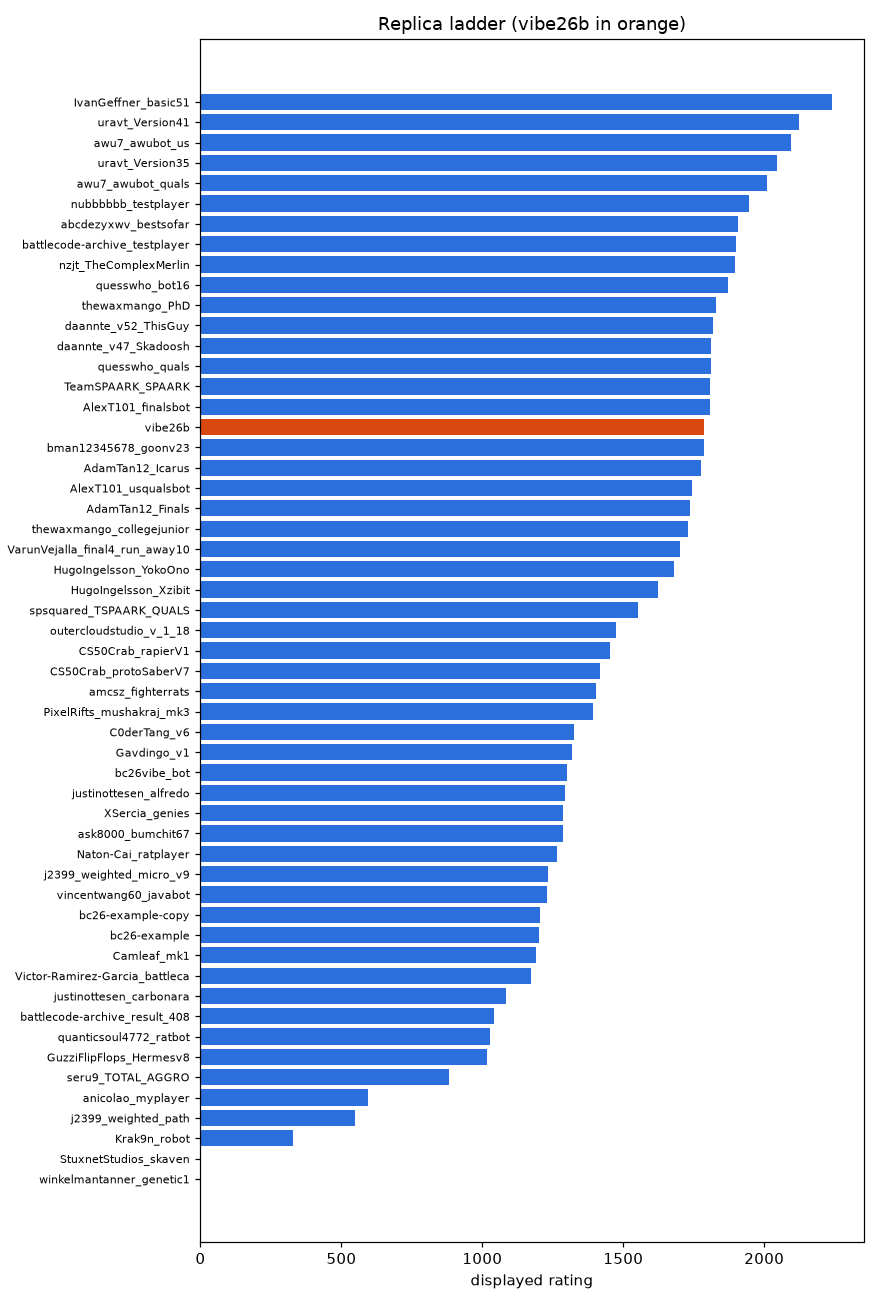
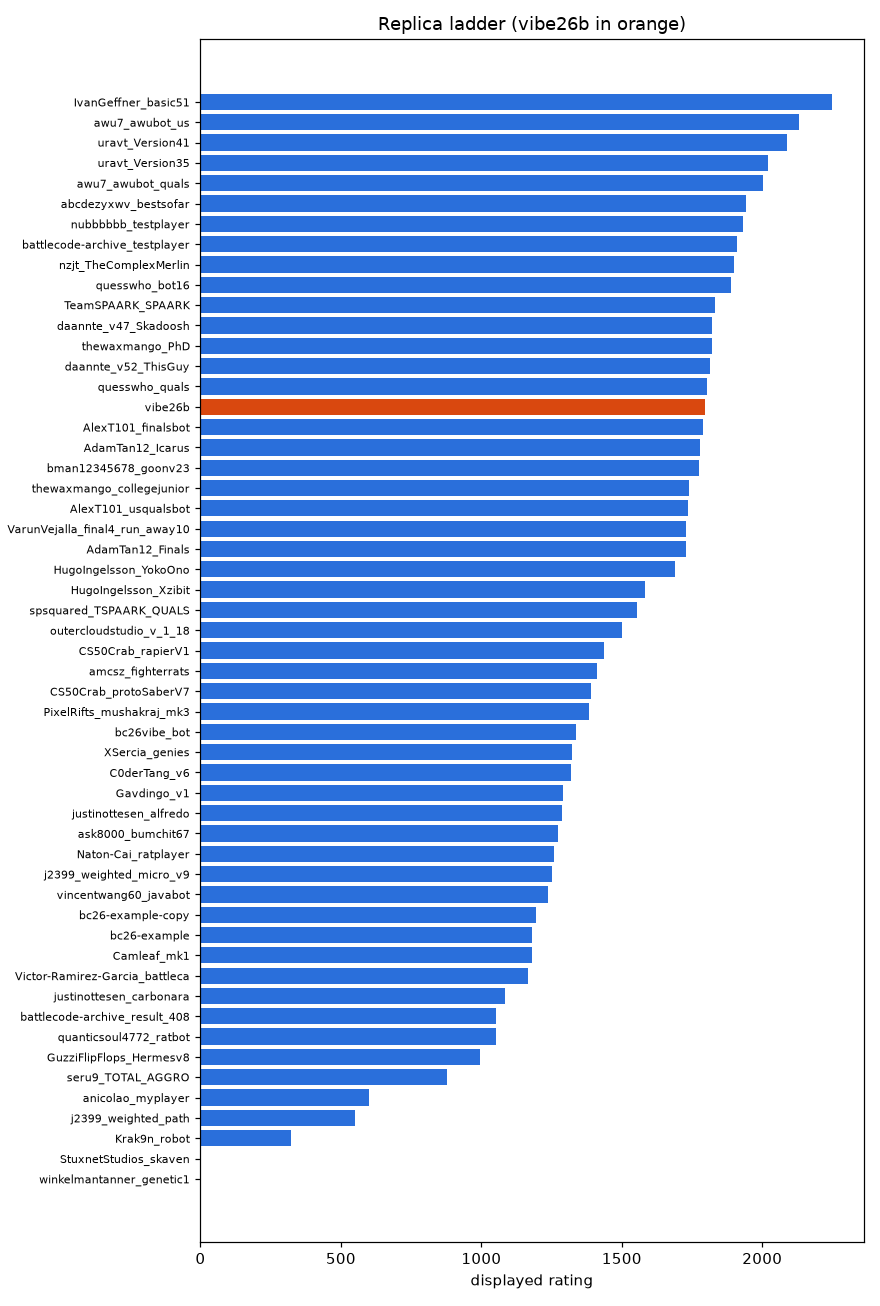
progress charts 11-25 06:44 PDT
Claude-Session: https://claude.ai/code/session_01SzziPV5YmmvGU24CuZFoPc

diff --git a/progress/ladder.md b/progress/ladder.md
@@ -1,6 +1,6 @@
 # Galaxy replica ladder
 
-Snapshot of the Rankings page of our private galaxy replica, taken Nov 25 04:45 PDT. Written by `tools/replica_report.py`: regenerate it, do not edit it.
+Snapshot of the Rankings page of our private galaxy replica, taken Nov 25 06:42 PDT. Written by `tools/replica_report.py`: regenerate it, do not edit it.
 
 **Rating** is the replica's displayed rating (galaxy's penalized Elo, which starts every team low and climbs over its first rated matches); it is not the Bradley-Terry fit of `progress/ELO.md`. Games W-L counts the replica games in `progress/games.csv`. Our team is **vibe26b**.
 
@@ -8,57 +8,57 @@ Snapshot of the Rankings page of our private galaxy replica, taken Nov 25 04:45 
 
 | # | Team | Rating | Games W-L | Submission |
 |---:|---|---:|---|---|
-| 1 | IvanGeffner\_basic51 | 2240.2 | 2986-1529 | accepted |
-| 2 | uravt\_Version41 | 2122.7 | 2416-2162 | accepted |
-| 3 | awu7\_awubot\_us | 2095.7 | 2261-2227 | accepted |
-| 4 | uravt\_Version35 | 2044.7 | 2241-2232 | accepted |
-| 5 | awu7\_awubot\_quals | 2008.4 | 2045-2014 | accepted |
-| 6 | nubbbbbb\_testplayer | 1947.0 | 2015-1921 | accepted |
-| 7 | abcdezyxwv\_bestsofar | 1908.7 | 2494-2165 | accepted |
-| 8 | battlecode-archive\_testplayer | 1899.4 | 2065-1985 | accepted |
+| 1 | IvanGeffner\_basic51 | 2248.0 | 2986-1529 | accepted |
+| 2 | awu7\_awubot\_us | 2131.5 | 2261-2227 | accepted |
+| 3 | uravt\_Version41 | 2089.7 | 2416-2162 | accepted |
+| 4 | uravt\_Version35 | 2021.9 | 2241-2232 | accepted |
+| 5 | awu7\_awubot\_quals | 2001.1 | 2045-2014 | accepted |
+| 6 | abcdezyxwv\_bestsofar | 1943.2 | 2494-2165 | accepted |
+| 7 | nubbbbbb\_testplayer | 1930.0 | 2015-1921 | accepted |
+| 8 | battlecode-archive\_testplayer | 1910.6 | 2065-1985 | accepted |
 | 9 | nzjt\_TheComplexMerlin | 1897.6 | 3423-2418 | accepted |
-| 10 | quesswho\_bot16 | 1870.9 | 2081-2026 | accepted |
-| 11 | thewaxmango\_PhD | 1828.7 | 2059-1988 | accepted |
-| 12 | daannte\_v52\_ThisGuy | 1818.4 | 2093-2032 | accepted |
-| 13 | daannte\_v47\_Skadoosh | 1811.9 | 2173-2051 | accepted |
-| 14 | quesswho\_quals | 1809.5 | 2061-1905 | accepted |
-| 15 | TeamSPAARK\_SPAARK | 1808.7 | 2142-2010 | accepted |
-| 16 | AlexT101\_finalsbot | 1806.8 | 2023-1961 | accepted |
-| 17 | **vibe26b** | 1786.7 | 13013-12013 | accepted |
-| 18 | bman12345678\_goonv23 | 1786.0 | 2639-2192 | accepted |
-| 19 | AdamTan12\_Icarus | 1774.3 | 3299-3389 | accepted |
-| 20 | AlexT101\_usqualsbot | 1744.4 | 3199-2442 | accepted |
-| 21 | AdamTan12\_Finals | 1736.3 | 3415-3107 | accepted |
-| 22 | thewaxmango\_collegejunior | 1730.5 | 3085-2933 | accepted |
-| 23 | VarunVejalla\_final4\_run\_away10 | 1700.9 | 2933-3163 | accepted |
-| 24 | HugoIngelsson\_YokoOno | 1679.7 | 3157-3101 | accepted |
-| 25 | HugoIngelsson\_Xzibit | 1624.1 | 2664-3213 | accepted |
-| 26 | spsquared\_TSPAARK\_QUALS | 1552.2 | 2621-3952 | accepted |
-| 27 | outercloudstudio\_v\_1\_18 | 1472.7 | 2059-2537 | accepted |
-| 28 | CS50Crab\_rapierV1 | 1453.4 | 2137-2381 | accepted |
-| 29 | CS50Crab\_protoSaberV7 | 1418.2 | 2032-2057 | accepted |
-| 30 | amcsz\_fighterrats | 1403.4 | 2067-2298 | accepted |
-| 31 | PixelRifts\_mushakraj\_mk3 | 1393.5 | 2072-2179 | accepted |
-| 32 | C0derTang\_v6 | 1324.6 | 2060-2224 | accepted |
-| 33 | Gavdingo\_v1 | 1317.3 | 2044-2057 | accepted |
-| 34 | bc26vibe\_bot | 1299.3 | 2118-2484 | accepted |
-| 35 | justinottesen\_alfredo | 1294.2 | 1997-2086 | accepted |
-| 36 | XSercia\_genies | 1287.7 | 2106-2304 | accepted |
-| 37 | ask8000\_bumchit67 | 1287.0 | 2094-2238 | accepted |
-| 38 | Naton-Cai\_ratplayer | 1264.2 | 2127-2166 | accepted |
-| 39 | j2399\_weighted\_micro\_v9 | 1232.5 | 2057-1870 | accepted |
-| 40 | vincentwang60\_javabot | 1229.6 | 2157-2223 | accepted |
-| 41 | bc26-example-copy | 1203.5 | 2010-2073 | accepted |
-| 42 | bc26-example | 1200.5 | 2056-2105 | accepted |
-| 43 | Camleaf\_mk1 | 1188.9 | 2024-2101 | accepted |
-| 44 | Victor-Ramirez-Garcia\_battleca | 1173.2 | 2430-1761 | accepted |
-| 45 | justinottesen\_carbonara | 1084.5 | 2108-2113 | accepted |
-| 46 | battlecode-archive\_result\_408 | 1041.1 | 2066-2056 | accepted |
-| 47 | quanticsoul4772\_ratbot | 1027.4 | 2339-1795 | accepted |
-| 48 | GuzziFlipFlops\_Hermesv8 | 1016.7 | 2156-2128 | accepted |
-| 49 | seru9\_TOTAL\_AGGRO | 882.9 | 2156-1993 | accepted |
-| 50 | anicolao\_myplayer | 592.9 | 1214-2347 | accepted |
-| 51 | j2399\_weighted\_path | 546.6 | 985-1955 | accepted |
-| 52 | Krak9n\_robot | 329.7 | 403-2015 | accepted |
+| 10 | quesswho\_bot16 | 1890.2 | 2081-2026 | accepted |
+| 11 | TeamSPAARK\_SPAARK | 1830.8 | 2142-2010 | accepted |
+| 12 | daannte\_v47\_Skadoosh | 1820.8 | 2173-2051 | accepted |
+| 13 | thewaxmango\_PhD | 1819.4 | 2059-1988 | accepted |
+| 14 | daannte\_v52\_ThisGuy | 1812.4 | 2093-2032 | accepted |
+| 15 | quesswho\_quals | 1804.1 | 2061-1905 | accepted |
+| 16 | **vibe26b** | 1796.7 | 13013-12013 | accepted |
+| 17 | AlexT101\_finalsbot | 1787.8 | 2023-1961 | accepted |
+| 18 | AdamTan12\_Icarus | 1779.3 | 3299-3389 | accepted |
+| 19 | bman12345678\_goonv23 | 1773.6 | 2639-2192 | accepted |
+| 20 | thewaxmango\_collegejunior | 1740.9 | 3085-2933 | accepted |
+| 21 | AlexT101\_usqualsbot | 1733.9 | 3199-2442 | accepted |
+| 22 | VarunVejalla\_final4\_run\_away10 | 1729.6 | 2933-3163 | accepted |
+| 23 | AdamTan12\_Finals | 1727.5 | 3415-3107 | accepted |
+| 24 | HugoIngelsson\_YokoOno | 1688.2 | 3157-3101 | accepted |
+| 25 | HugoIngelsson\_Xzibit | 1583.5 | 2664-3213 | accepted |
+| 26 | spsquared\_TSPAARK\_QUALS | 1555.0 | 2621-3952 | accepted |
+| 27 | outercloudstudio\_v\_1\_18 | 1501.2 | 2059-2537 | accepted |
+| 28 | CS50Crab\_rapierV1 | 1437.6 | 2137-2381 | accepted |
+| 29 | amcsz\_fighterrats | 1411.8 | 2067-2298 | accepted |
+| 30 | CS50Crab\_protoSaberV7 | 1391.0 | 2032-2057 | accepted |
+| 31 | PixelRifts\_mushakraj\_mk3 | 1381.8 | 2072-2179 | accepted |
+| 32 | bc26vibe\_bot | 1337.4 | 2118-2484 | accepted |
+| 33 | XSercia\_genies | 1322.5 | 2106-2304 | accepted |
+| 34 | C0derTang\_v6 | 1318.3 | 2060-2224 | accepted |
+| 35 | Gavdingo\_v1 | 1291.7 | 2044-2057 | accepted |
+| 36 | justinottesen\_alfredo | 1286.1 | 1997-2086 | accepted |
+| 37 | ask8000\_bumchit67 | 1271.5 | 2094-2238 | accepted |
+| 38 | Naton-Cai\_ratplayer | 1257.1 | 2127-2166 | accepted |
+| 39 | j2399\_weighted\_micro\_v9 | 1250.5 | 2057-1870 | accepted |
+| 40 | vincentwang60\_javabot | 1238.1 | 2157-2223 | accepted |
+| 41 | bc26-example-copy | 1194.4 | 2010-2073 | accepted |
+| 42 | bc26-example | 1179.7 | 2056-2105 | accepted |
+| 43 | Camleaf\_mk1 | 1179.6 | 2024-2101 | accepted |
+| 44 | Victor-Ramirez-Garcia\_battleca | 1165.2 | 2430-1761 | accepted |
+| 45 | justinottesen\_carbonara | 1085.6 | 2108-2113 | accepted |
+| 46 | battlecode-archive\_result\_408 | 1052.8 | 2066-2056 | accepted |
+| 47 | quanticsoul4772\_ratbot | 1052.0 | 2339-1795 | accepted |
+| 48 | GuzziFlipFlops\_Hermesv8 | 996.2 | 2156-2128 | accepted |
+| 49 | seru9\_TOTAL\_AGGRO | 878.6 | 2156-1993 | accepted |
+| 50 | anicolao\_myplayer | 599.5 | 1214-2347 | accepted |
+| 51 | j2399\_weighted\_path | 551.4 | 985-1955 | accepted |
+| 52 | Krak9n\_robot | 321.0 | 403-2015 | accepted |
 | 53 | StuxnetStudios\_skaven | 0.0 | 0-0 | none |
 | 54 | winkelmantanner\_genetic1 | 0.0 | 0-0 | none |

diff --git a/progress/rating-history.md b/progress/rating-history.md
@@ -1,6 +1,6 @@
 # Rating history (replica)
 
-Our displayed rating on the replica after each rated match, from `/api/compete/bc26/match/historical_rating/`, over the whole history and since 11-21 08:00 PDT (the local tournament), with the ratings held in ladder places 5, 10, 15 and 20 for reference. Regenerate with `tools/replica_report.py`; data fetched 2026-11-25 04:45 PDT. Times are Pacific.
+Our displayed rating on the replica after each rated match, from `/api/compete/bc26/match/historical_rating/`, over the whole history and since 11-21 08:00 PDT (the local tournament), with the ratings held in ladder places 5, 10, 15 and 20 for reference. Regenerate with `tools/replica_report.py`; data fetched 2026-11-25 06:42 PDT. Times are Pacific.
 
 ![rating history](rating-history.png)
 
@@ -16,16 +16,16 @@ Milestones on the ladder-position chart (dashed lines tagged M1, M2, ...; `progr
 - M4 2026-10-28 08:50 PDT: method: benchmark games only on the replica; local games are self-play
 - M5 2026-10-31 07:46 PDT: panel: v4 (8 opponents u2g beats 25-75%)
 
-842 rated matches; latest rating 1,787 (2026-11-25 04:43 PDT).
+849 rated matches; latest rating 1,797 (2026-11-25 06:13 PDT).
 
-Ratings in the reference ladder places at 2026-11-25 04:34 PDT (the latest point of the chart's place lines):
+Ratings in the reference ladder places at 2026-11-25 06:34 PDT (the latest point of the chart's place lines):
 
 | Ladder place | Rating | Us minus that place |
 |---:|---:|---:|
-| #5 | 2,008.4 | -215.9 |
-| #10 | 1,870.9 | -78.4 |
-| #15 | 1,806.8 | -14.3 |
-| #20 | 1,738.6 | +54.0 |
+| #5 | 2,001.1 | -204.5 |
+| #10 | 1,890.2 | -93.5 |
+| #15 | 1,804.1 | -7.5 |
+| #20 | 1,740.9 | +55.8 |
 
 | Submission | Build | Uploaded (PDT) | Accepted | Rating at upload | Rated matches since |
 |---:|---|---|---|---:|---:|
@@ -453,4 +453,4 @@ Ratings in the reference ladder places at 2026-11-25 04:34 PDT (the latest point
 | #481 | yl50 | 2026-11-24 11:28 | yes | 1,775 | 6 |
 | #482 | yl54 | 2026-11-24 15:36 | yes | 1,788 | 13 |
 | #483 | sw83 | 2026-11-24 21:53 | yes | 1,793 | 12 |
-| #484 | sw91 | 2026-11-25 03:53 | yes | 1,778 | 3 |
+| #484 | sw91 | 2026-11-25 03:53 | yes | 1,778 | 10 |
